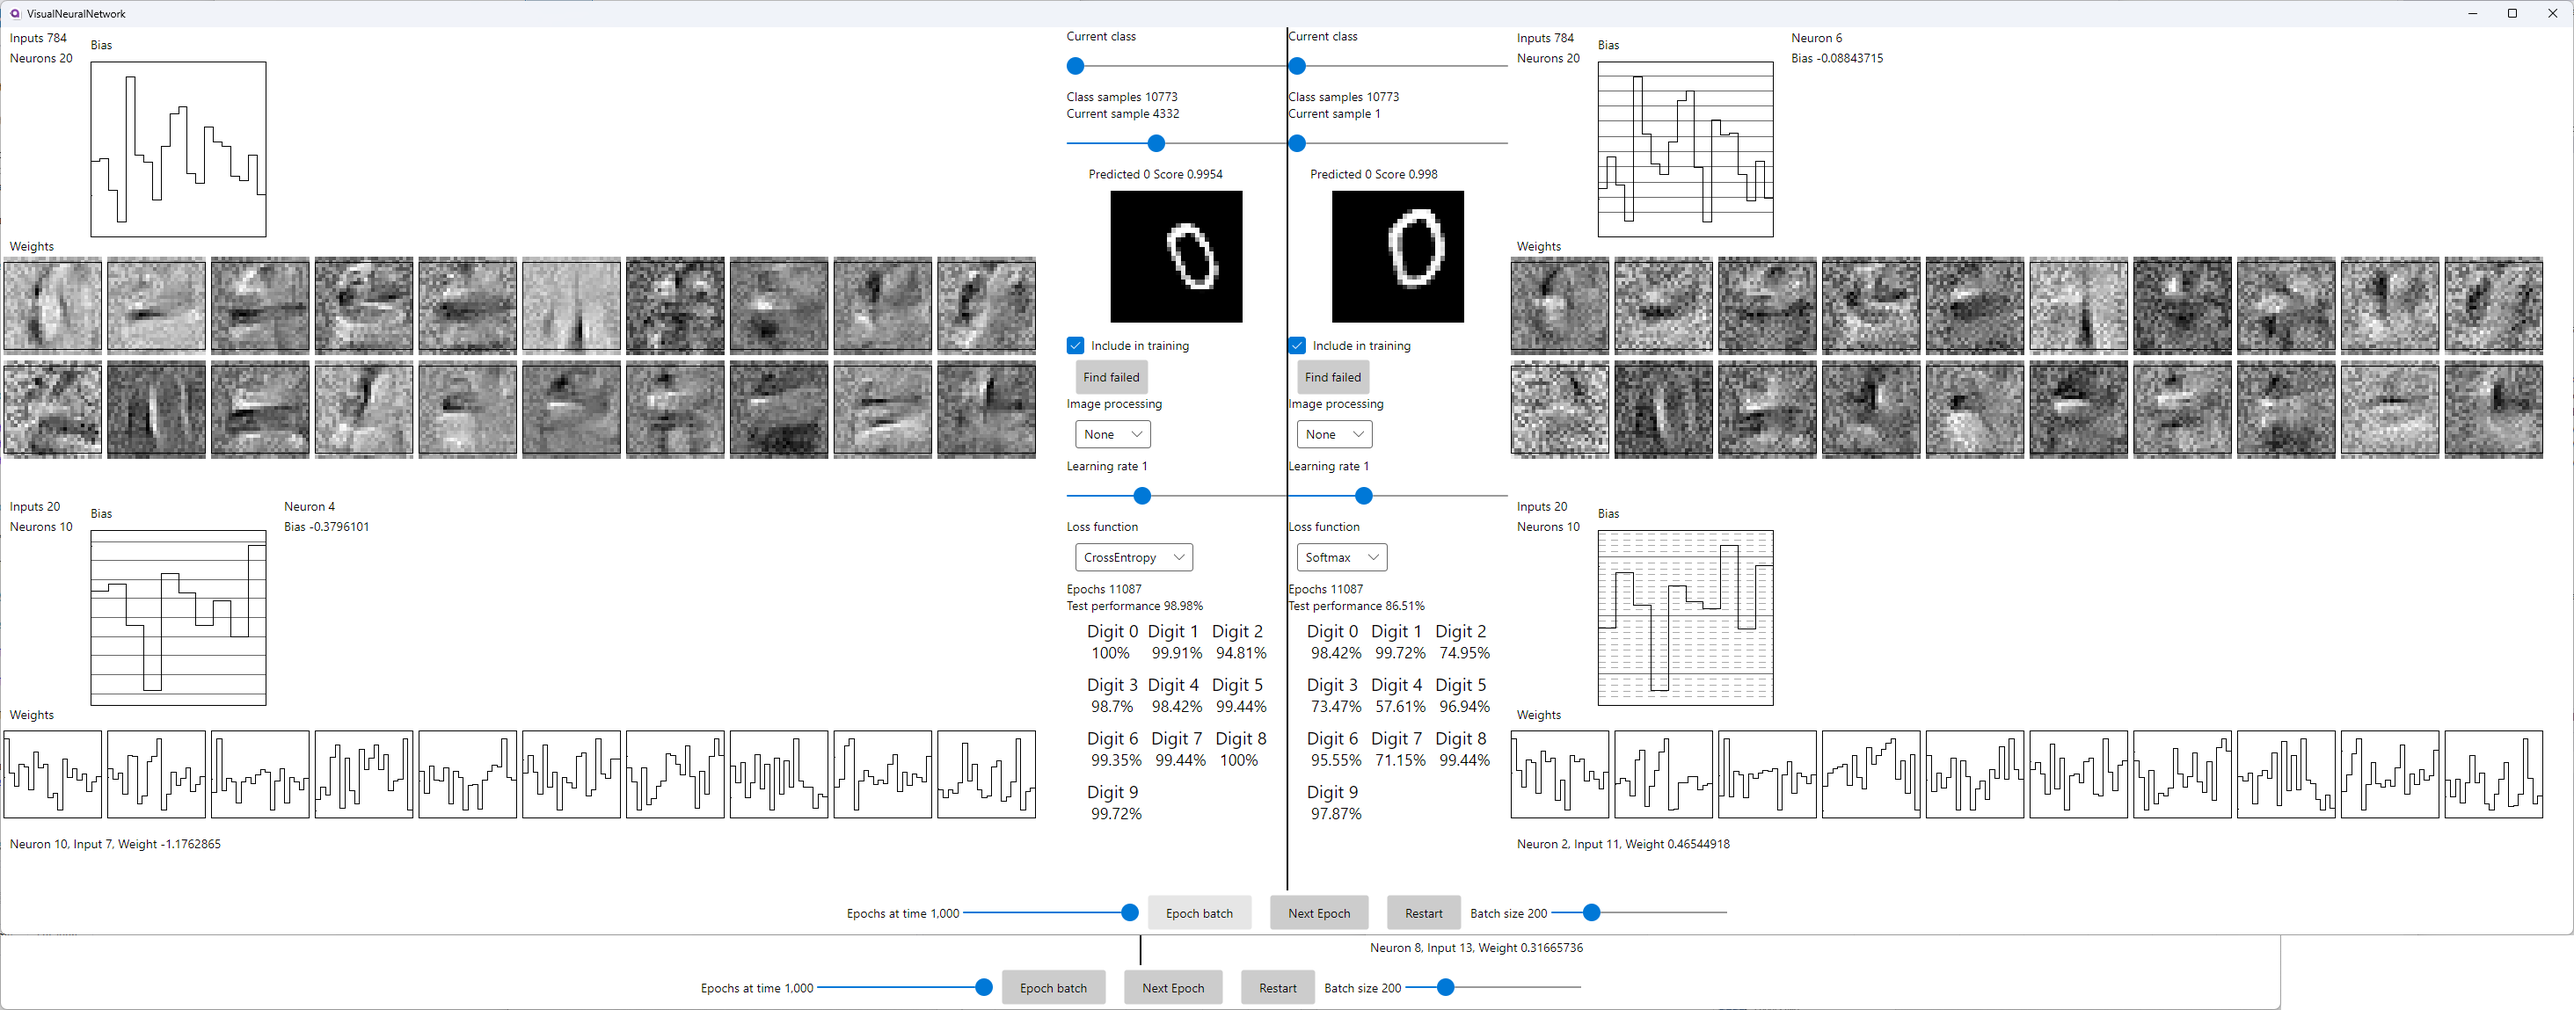
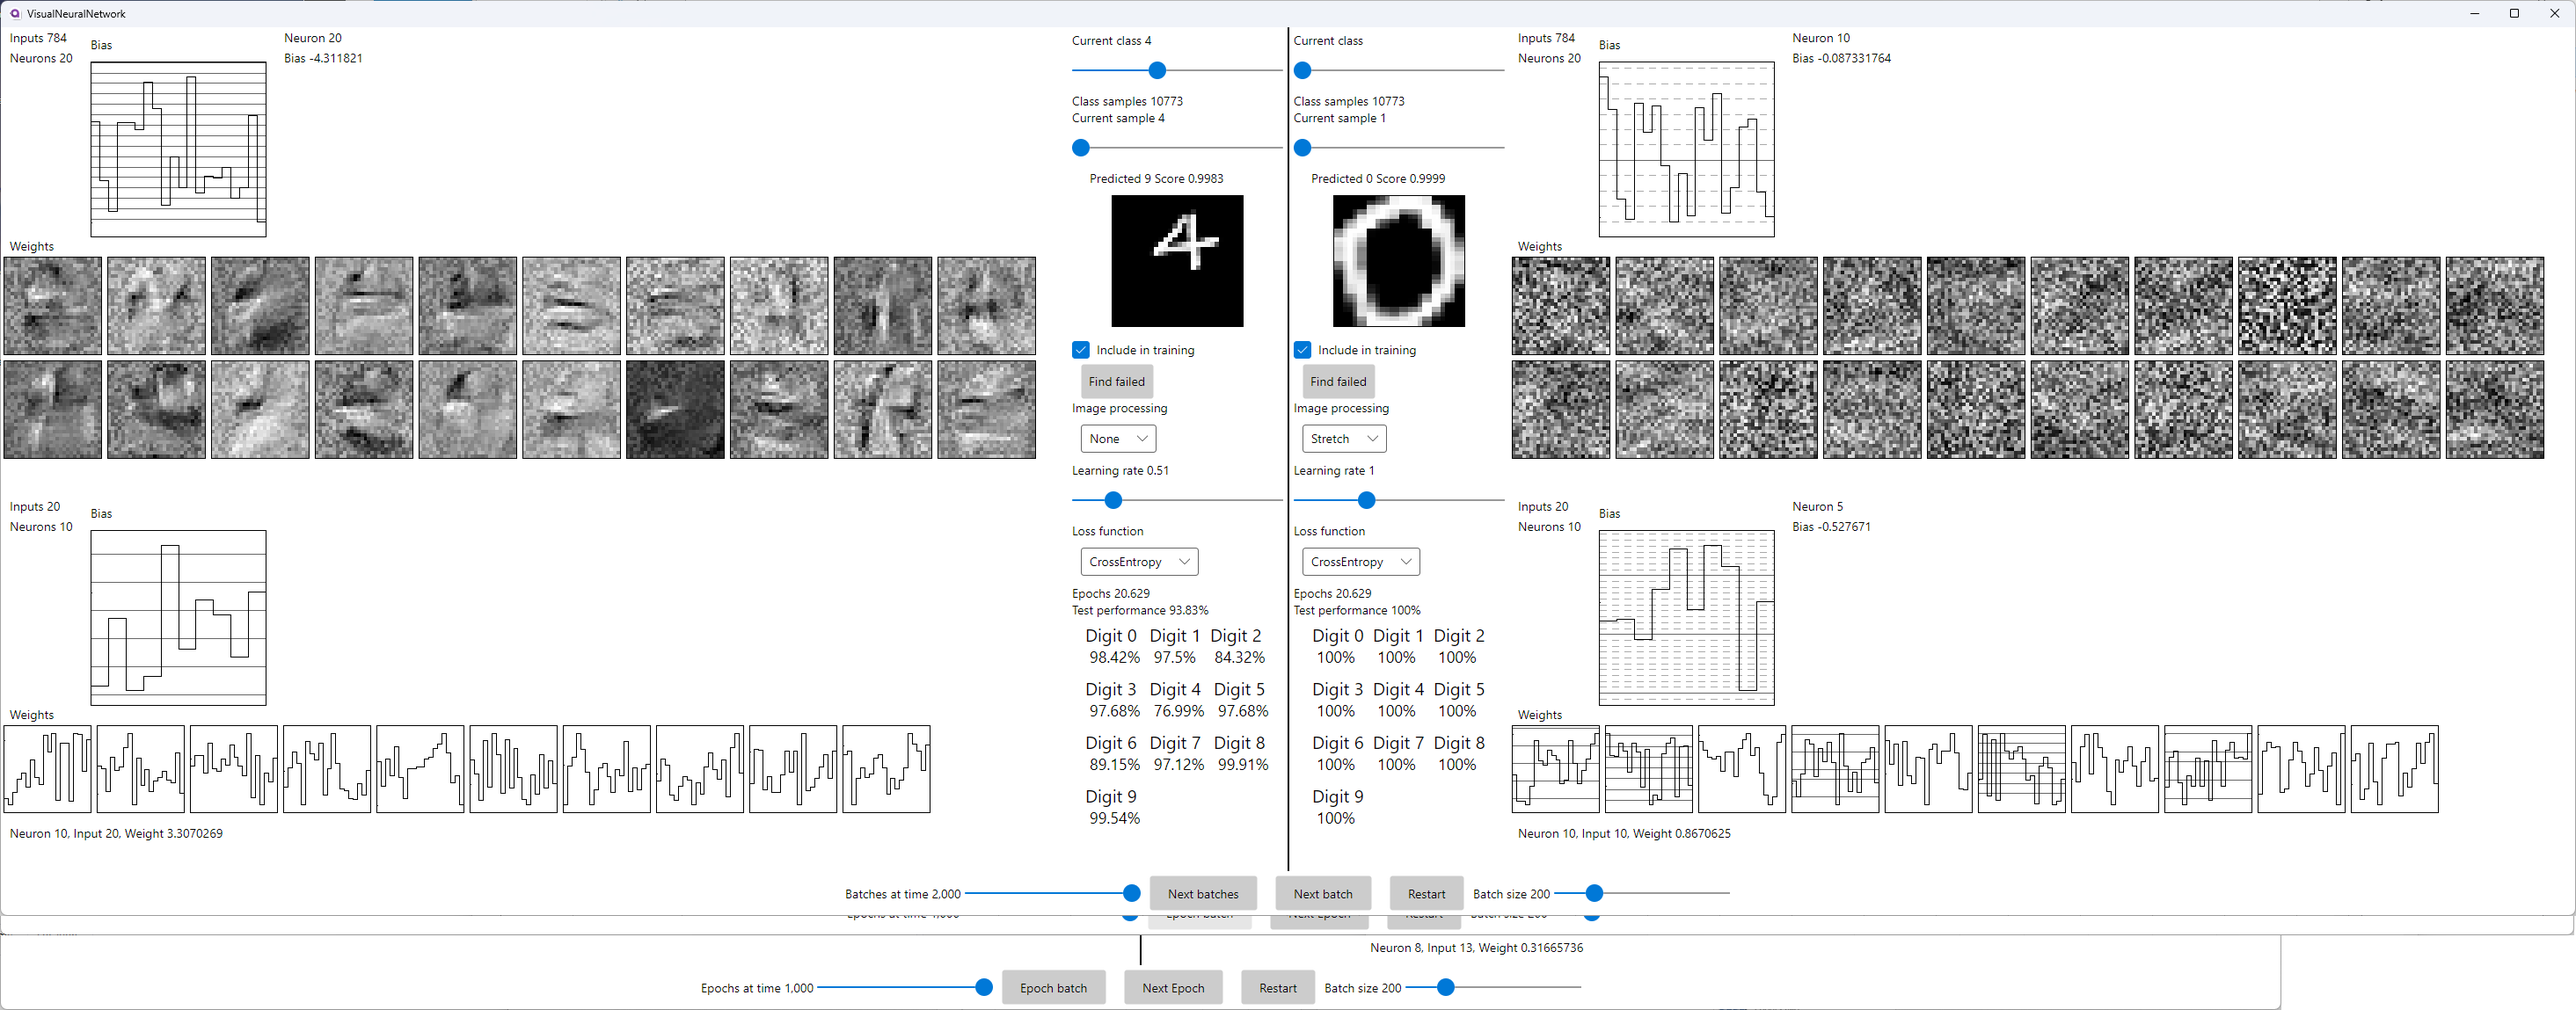
Async rendering of plots

diff --git a/VisualNeuralNetwork/MNIST/LayerView.axaml.cs b/VisualNeuralNetwork/MNIST/LayerView.axaml.cs
@@ -1,6 +1,7 @@
 using Avalonia.Controls;
 using Avalonia.Controls.Presenters;
 using Avalonia.Data.Converters;
+using ReactiveUI;
 using System;
 using System.Collections.Generic;
 using System.Collections.ObjectModel;
@@ -10,9 +11,25 @@ using VisualNeuralNetwork.NeuralNetwork;
 
 namespace VisualNeuralNetwork.MNIST
 {
+    class DataContextWrapper : ViewModelBase
+    {
+        public object? DataContext { get; private set; }
+
+        public DataContextWrapper(object? dataContext)
+        {
+            DataContext = dataContext;
+        }
+
+        public void SetDataContext(object dataContext)
+        {
+            DataContext = dataContext;
+            this.RaisePropertyChanged("DataContext");
+        }
+    }
+
     public class DataContextConverter : IValueConverter
     {
-        ObservableCollection<XyPlotModel> xyPlotModels = new ObservableCollection<XyPlotModel>();
+        ObservableCollection<DataContextWrapper> dataContexts = new ObservableCollection<DataContextWrapper>();
 
         public object? Convert(object? value, Type targetType, object? parameter, CultureInfo culture)
         {
@@ -25,7 +42,6 @@ namespace VisualNeuralNetwork.MNIST
                 }
                 else if (arr.Shape[1] < 100)
                 {
-                    List<XyPlotModel> result = new();
                     int index = 0;
                     for (int i = 0; i < arr.Shape[0]; i++)
                     {
@@ -34,13 +50,16 @@ namespace VisualNeuralNetwork.MNIST
                         {
                             y[j] = (float)arr.Data[index++];
                         }
-                        result.Add(new XyPlotModel(y));
+                        if (i < dataContexts.Count)
+                            dataContexts[i].SetDataContext(new XyPlotModel(y));
+                        else
+                            dataContexts.Add(new DataContextWrapper(new XyPlotModel(y)));
                     }
-                    return result;
+                    return dataContexts;
                 }
                 else
                 {
-                    List<ArraySegment<double>> result = new();
+                    //List<ArraySegment<double>> result = new();
                     int index = 0;
                     for (int i = 0; i < arr.Shape[0]; i++)
                     {
@@ -49,10 +68,13 @@ namespace VisualNeuralNetwork.MNIST
                         {
                             y[j] = arr.Data[index++];
                         }
-                        result.Add(new ArraySegment<double>(y));
+                        if (i < dataContexts.Count)
+                            dataContexts[i].SetDataContext(new ArraySegment<double>(y));
+                        else
+                            dataContexts.Add(new DataContextWrapper(new ArraySegment<double>(y)));
                     }
 
-                    return result;
+                    return dataContexts;
                 }
             }
 

diff --git a/VisualNeuralNetwork/Plot/GridPlot.axaml.cs b/VisualNeuralNetwork/Plot/GridPlot.axaml.cs
@@ -82,6 +82,10 @@ namespace VisualNeuralNetwork
             {
                 _ = Redraw(values);
             }
+            else if (DataContext is ArraySegment<double> dvalues)
+            {
+                _ = Redraw(dvalues);
+            }
         }
 
         async Task Redraw(ArraySegment<byte> values)
@@ -94,8 +98,8 @@ namespace VisualNeuralNetwork
             int width = (int)grid.Bounds.Width;
             int height = (int)grid.Bounds.Height;
 
-            //WriteableBitmap? wbitmap = await CreateBitmapAsync(values, width, height, NumColumns, redrawTime);
-            WriteableBitmap? wbitmap = CreateBitmap(values, width, height, NumColumns, redrawTime);
+            WriteableBitmap? wbitmap = await CreateBitmapAsync(values, width, height, NumColumns, redrawTime);
+            //WriteableBitmap? wbitmap = CreateBitmap(values, width, height, NumColumns, redrawTime);
 
             if (wbitmap != null && redrawTime == lastRedrawTime)
             {
@@ -121,8 +125,8 @@ namespace VisualNeuralNetwork
                 ? new byte[values.Count]
                 : values.Select(d => (byte)((d-min) / range * 255)).ToArray();
                  
-            //WriteableBitmap? wbitmap = await CreateBitmapAsync(bytes, width, height, NumColumns, redrawTime);
-            WriteableBitmap? wbitmap = CreateBitmap(bytes, width, height, NumColumns, redrawTime);
+            WriteableBitmap? wbitmap = await CreateBitmapAsync(bytes, width, height, NumColumns, redrawTime);
+            //WriteableBitmap? wbitmap = CreateBitmap(bytes, width, height, NumColumns, redrawTime);
 
             if (wbitmap != null && redrawTime == lastRedrawTime)
             {

diff --git a/VisualNeuralNetwork/Plot/XYPlot.axaml.cs b/VisualNeuralNetwork/Plot/XYPlot.axaml.cs
@@ -119,8 +119,8 @@ namespace VisualNeuralNetwork
             int width = (int)grid.Bounds.Width;
             int height = (int)grid.Bounds.Height;
 
-            //WriteableBitmap? wbm = await CreateBitmapAsync(data, width, height, redrawTime);
-            WriteableBitmap? wbm = CreateBitmap(data, width, height, redrawTime);
+            WriteableBitmap? wbm = await CreateBitmapAsync(data, width, height, redrawTime);
+            //WriteableBitmap? wbm = CreateBitmap(data, width, height, redrawTime);
 
             if (wbm != null)
             {
@@ -183,6 +183,11 @@ namespace VisualNeuralNetwork
 
                         for (int x = 0; x < data.Y.Length; x++)
                         {
+                            if (lastRedrawTime != redrawTime)
+                            {
+                                return null;
+                            }
+
                             y = (int)((1 - (data.Y[x] - yMin) / yRange) * buf.Size.Height);
 
                             if (x == 0)

diff --git a/VisualNeuralNetwork/MNIST/NeuralNetworkViewModel.cs b/VisualNeuralNetwork/MNIST/NeuralNetworkViewModel.cs
@@ -63,8 +63,8 @@ namespace VisualNeuralNetwork.MNIST
                 if (numberOfTrainingSamples > 0)
                     for (int i = 0; i < count; i++)
                     {
-                        Network1?.Train(BatchSize, i == count - 1);
-                        Network2?.Train(BatchSize, i == count - 1);
+                        Network1?.Train(BatchSize, i == count - 1 || i % 100 == 0);
+                        Network2?.Train(BatchSize, i == count - 1 || i % 100 == 0);
                     }
                 isTraining = false;
             });
